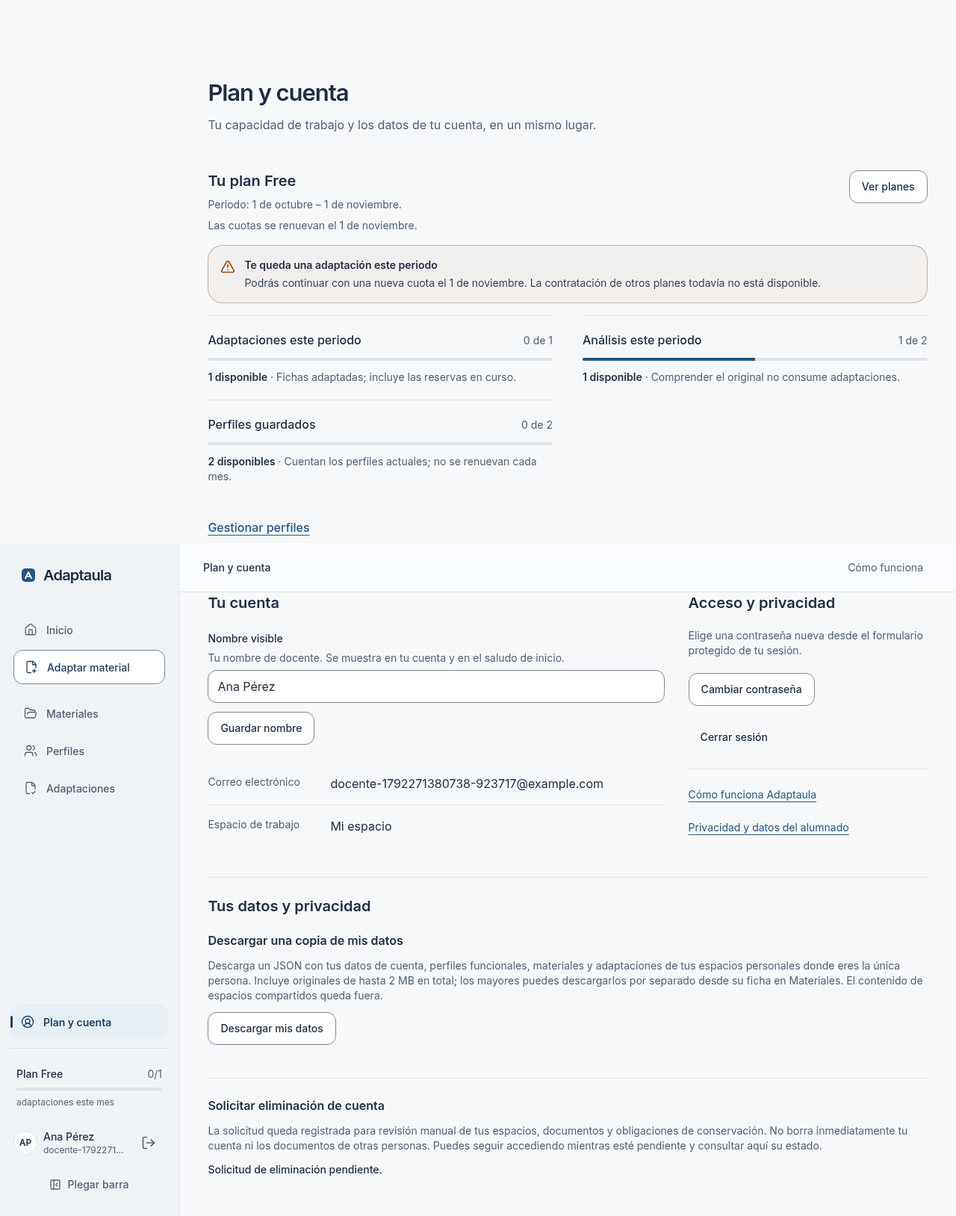
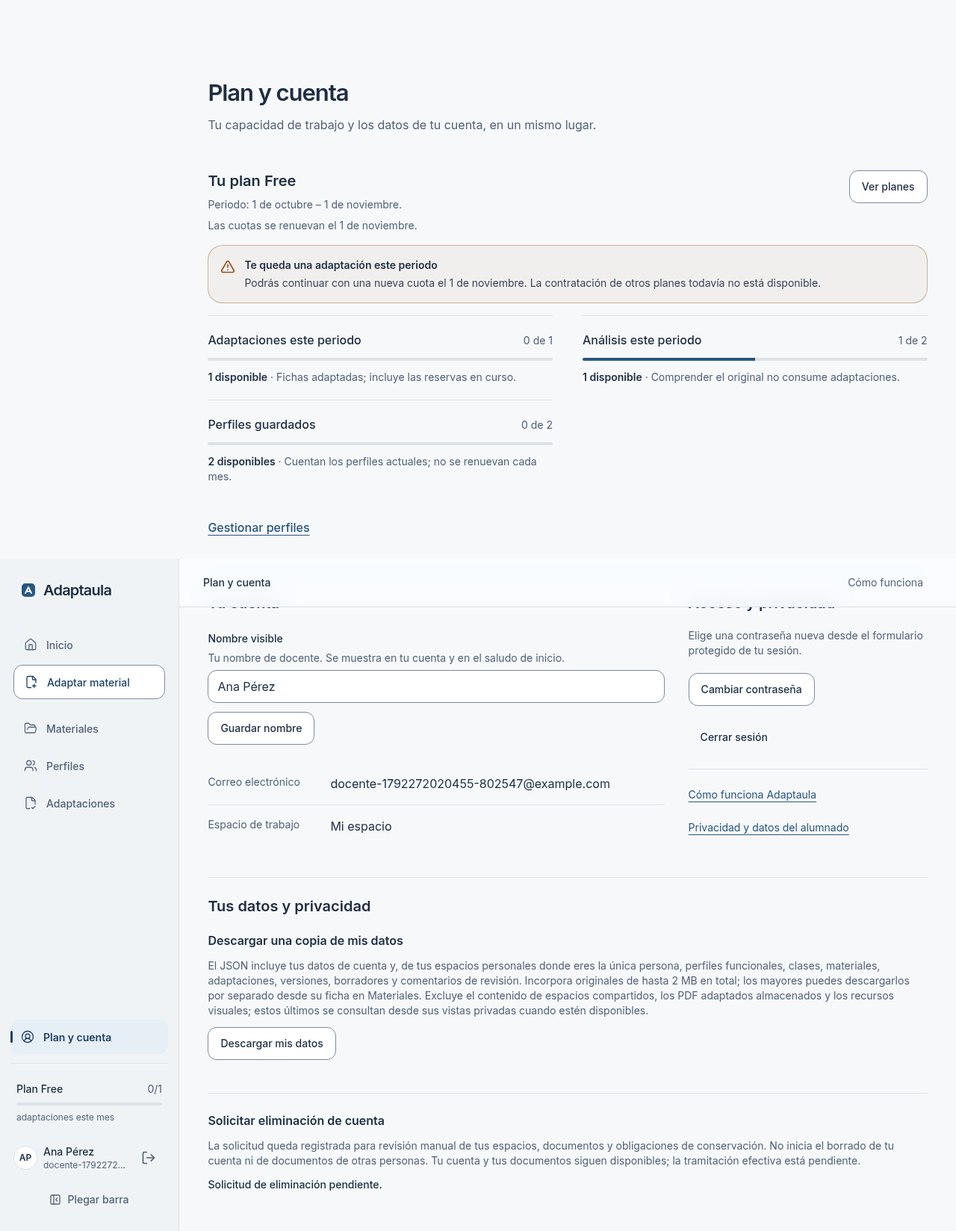
fix: restrict account deletion request RPC to verified server flow

diff --git a/tests/e2e/account-privacy-stage5a.spec.ts b/tests/e2e/account-privacy-stage5a.spec.ts
@@ -2,9 +2,29 @@ import AxeBuilder from "@axe-core/playwright";
 import { expect, test } from "@playwright/test";
 import { makePdf, password, signUpAndOnboard, uniqueEmail, uploadAndOpen } from "./helpers";
 
+const fake = `http://127.0.0.1:${process.env.FAKE_SUPABASE_PORT ?? 54399}`;
+const publishable = "sb_publishable_fakefakefakefakefake";
+
+async function localToken(page: import("@playwright/test").Page, email: string) {
+  const response = await page.request.post(`${fake}/auth/v1/token?grant_type=password`, {
+    headers: { apikey: publishable }, data: { email, password },
+  });
+  expect(response.ok()).toBe(true);
+  const session = await response.json() as { access_token: string; user: { id: string } };
+  return { token: session.access_token, id: session.user.id };
+}
+
 test("copia personal y solicitud de baja verificadas con dos identidades ficticias", async ({ page, browser }, info) => {
   const email = uniqueEmail();
   await signUpAndOnboard(page, email);
+  const a = await localToken(page, email);
+  const directHeaders = { apikey: publishable, authorization: `Bearer ${a.token}`, "content-type": "application/json" };
+  for (const data of [{}, { p_user: a.id }]) {
+    const direct = await page.request.post(`${fake}/rest/v1/rpc/request_account_deletion`, { headers: directHeaders, data });
+    expect(direct.ok()).toBe(false);
+  }
+  const before = await page.request.get(`${fake}/rest/v1/account_deletion_requests?select=id`, { headers: directHeaders });
+  expect(await before.json()).toEqual([]);
   const original = await makePdf({ marker: "PRIVACY-5A" });
   const materialId = await uploadAndOpen(page, { name: "original-sintetico.pdf", mimeType: "application/pdf", buffer: original });
   await page.goto("/app/uso");
@@ -33,7 +53,9 @@ test("copia personal y solicitud de baja verificadas con dos identidades fictici
 
   const otherContext = await browser.newContext();
   const other = await otherContext.newPage();
-  await signUpAndOnboard(other, uniqueEmail());
+  const otherEmail = uniqueEmail();
+  await signUpAndOnboard(other, otherEmail);
+  const b = await localToken(other, otherEmail);
   await other.goto("/app/uso");
   const forbiddenFile = await other.request.get(`/api/materials/${materialId}/file?download=1`);
   expect(forbiddenFile.status()).toBe(404);
@@ -54,6 +76,19 @@ test("copia personal y solicitud de baja verificadas con dos identidades fictici
   await page.getByLabel("Contraseña actual").fill(password);
   await page.getByRole("button", { name: "Solicitar eliminación" }).click();
   await expect(page.getByText("Solicitud de eliminación pendiente.")).toBeVisible();
+  await expect(page.getByText(/No se ha ejecutado el borrado: tu cuenta y tus documentos siguen disponibles/)).toBeVisible();
+  const repeated = await page.evaluate(async ({ pwd, otherId }) => {
+    const response = await fetch("/api/account/deletion-request", { method: "POST", headers: { "content-type": "application/json" },
+      body: JSON.stringify({ confirmation: "ELIMINAR MI CUENTA", password: pwd, user_id: otherId }) });
+    return { status: response.status, data: await response.json() };
+  }, { pwd: password, otherId: b.id });
+  expect(repeated.status).toBe(202);
+  const ownRequests = await page.request.get(`${fake}/rest/v1/account_deletion_requests?select=id,user_id`, { headers: directHeaders });
+  expect(await ownRequests.json()).toEqual([{ id: repeated.data.id, user_id: a.id }]);
+  const bRequests = await page.request.get(`${fake}/rest/v1/account_deletion_requests?select=id`, {
+    headers: { apikey: publishable, authorization: `Bearer ${b.token}` },
+  });
+  expect(await bRequests.json()).toEqual([]);
   await page.reload();
   await expect(page.getByText("Solicitud de eliminación pendiente.")).toBeVisible();
   await expect(page.getByText(email, { exact: true }).last()).toBeVisible();
@@ -66,4 +101,27 @@ test("copia personal y solicitud de baja verificadas con dos identidades fictici
   const overflow = await page.evaluate(() => [...document.querySelectorAll("main *")]
     .filter((el) => el.getBoundingClientRect().right > innerWidth + 1).slice(0, 5).map((el) => el.tagName));
   expect(overflow).toEqual([]);
+});
+
+test("el límite de verificación bloquea intentos repetidos sin crear una solicitud", async ({ page }) => {
+  const email = uniqueEmail();
+  await signUpAndOnboard(page, email);
+  const identity = await localToken(page, email);
+  const attempts = await page.evaluate(async (correctPassword) => {
+    const out = [];
+    for (let i = 0; i < 6; i += 1) {
+      const response = await fetch("/api/account/deletion-request", { method: "POST", headers: { "content-type": "application/json" },
+        body: JSON.stringify({ confirmation: "ELIMINAR MI CUENTA", password: i === 5 ? correctPassword : "incorrecta" }) });
+      out.push({ status: response.status, body: JSON.stringify(await response.json()) });
+    }
+    return out;
+  }, password);
+  expect(attempts.map((attempt) => attempt.status)).toEqual([403, 403, 403, 403, 403, 429]);
+  expect(attempts.every((attempt) => !attempt.body.includes(email) && !attempt.body.includes("invalid_credentials"))).toBe(true);
+  const requests = await page.request.get(`${fake}/rest/v1/account_deletion_requests?select=id`, {
+    headers: { apikey: publishable, authorization: `Bearer ${identity.token}` },
+  });
+  expect(await requests.json()).toEqual([]);
+  await page.goto("/app/uso");
+  await expect(page.getByRole("button", { name: "Solicitar eliminación" })).toBeVisible();
 });

diff --git a/tests/db/account-deletion-request.test.ts b/tests/db/account-deletion-request.test.ts
@@ -1,6 +1,6 @@
 import { afterAll, beforeAll, describe, expect, it } from "vitest";
 import type { PGlite } from "@electric-sql/pglite";
-import { as, createTestDb, createUser } from "./harness";
+import { as, applyMigration, createTestDb, createUser, migrationFiles } from "./harness";
 
 describe("account deletion requests", () => {
   let db: PGlite;
@@ -13,17 +13,47 @@ describe("account deletion requests", () => {
   });
   afterAll(async () => { await db.close(); });
 
-  it("requires authentication and exposes only the user's request", async () => {
+  it("does not allow an authenticated client to register a request through the RPC", async () => {
+    await expect(as(db, "authenticated", a.id, () => db.query("select public.request_account_deletion()"))).rejects.toThrow();
+    await expect(as(db, "authenticated", a.id, () => db.query("select public.request_account_deletion($1::uuid)", [a.id]))).rejects.toThrow();
+    await expect(as(db, "authenticated", a.id, () => db.query("insert into public.account_deletion_requests(user_id) values ($1)", [b.id]))).rejects.toThrow();
+    const requests = await db.query("select count(*)::int as total from public.account_deletion_requests where user_id = $1", [a.id]);
+    expect(requests.rows[0]).toEqual({ total: 0 });
+  });
+
+  it("permits only the service role, preserves idempotence and RLS, and leaves the account intact", async () => {
     await expect(as(db, "anon", null, () => db.query("select public.request_account_deletion()"))).rejects.toThrow();
-    const first = await as(db, "authenticated", a.id, () => db.query<{ id: string }>("select public.request_account_deletion() as id"));
-    const second = await as(db, "authenticated", a.id, () => db.query<{ id: string }>("select public.request_account_deletion() as id"));
+    const first = await as(db, "service_role", null, () => db.query<{ id: string }>("select public.request_account_deletion($1::uuid) as id", [a.id]));
+    const second = await as(db, "service_role", null, () => db.query<{ id: string }>("select public.request_account_deletion($1::uuid) as id", [a.id]));
     expect(second.rows[0]?.id).toBe(first.rows[0]?.id);
+    await as(db, "service_role", null, () => db.query("select public.request_account_deletion($1::uuid)", [b.id]));
     const own = await as(db, "authenticated", a.id, () => db.query<{ user_id: string; status: string }>("select user_id,status from public.account_deletion_requests"));
     expect(own.rows).toEqual([{ user_id: a.id, status: "requested" }]);
     const other = await as(db, "authenticated", b.id, () => db.query("select * from public.account_deletion_requests"));
-    expect(other.rows).toHaveLength(0);
+    expect(other.rows).toHaveLength(1);
+    expect(other.rows[0]).toMatchObject({ user_id: b.id });
     await expect(as(db, "authenticated", b.id, () => db.query("update public.account_deletion_requests set status='completed'"))).rejects.toThrow();
     const material = await db.query("select count(*)::int as n from public.workspaces where id = $1", [a.workspaceId]);
     expect(material.rows[0]).toEqual({ n: 1 });
+    expect((await db.query("select count(*)::int as n from auth.users where id = $1", [a.id])).rows[0]).toEqual({ n: 1 });
+  });
+
+  it("closes a legacy 027 RPC through the compensating migration", async () => {
+    const legacy = await createTestDb({ through: "20261001002700" });
+    try {
+      const user = await createUser(legacy, "legacy-privacy@example.test");
+      await legacy.exec(`create function public.request_account_deletion() returns uuid language sql security definer set search_path = '' as $$
+        insert into public.account_deletion_requests(user_id) values ((select auth.uid())) returning id
+      $$;
+      grant execute on function public.request_account_deletion() to authenticated;`);
+      const migration = migrationFiles().find((file) => file.includes("20261001002800"));
+      expect(migration).toBeDefined();
+      await applyMigration(legacy, migration!);
+      await expect(as(legacy, "authenticated", user.id, () => legacy.query("select public.request_account_deletion()"))).rejects.toThrow();
+      await expect(as(legacy, "authenticated", user.id, () => legacy.query("select public.request_account_deletion($1::uuid)", [user.id]))).rejects.toThrow();
+      expect((await legacy.query("select count(*)::int as n from public.account_deletion_requests")).rows[0]).toEqual({ n: 0 });
+    } finally {
+      await legacy.close();
+    }
   });
 });

diff --git a/src/components/account/privacy-controls.tsx b/src/components/account/privacy-controls.tsx
@@ -47,7 +47,7 @@ export function PrivacyControls({ deletionStatus, deletionAvailable }: { deletio
       const result = await response.json();
       form.reset();
       setRequestStatus(result.status);
-      setDeleteMessage("Solicitud registrada. Tu cuenta y tus documentos siguen disponibles mientras se tramita.");
+      setDeleteMessage("Solicitud registrada. No se ha ejecutado el borrado: tu cuenta y tus documentos siguen disponibles. La tramitación efectiva está pendiente.");
     } catch (error) { setDeleteMessage(error instanceof Error ? error.message : "Error al registrar la solicitud."); }
     finally { setDeleteBusy(false); }
   }
@@ -55,13 +55,13 @@ export function PrivacyControls({ deletionStatus, deletionAvailable }: { deletio
   return <div className="space-y-8">
     <div className="space-y-3">
       <h3 className="font-semibold">Descargar una copia de mis datos</h3>
-      <p className="text-sm text-muted-foreground">Descarga un JSON con tus datos de cuenta, perfiles funcionales, materiales y adaptaciones de tus espacios personales donde eres la única persona. Incluye originales de hasta 2 MB en total; los mayores puedes descargarlos por separado desde su ficha en Materiales. El contenido de espacios compartidos queda fuera.</p>
+      <p className="text-sm text-muted-foreground">El JSON incluye tus datos de cuenta y, de tus espacios personales donde eres la única persona, perfiles funcionales, clases, materiales, adaptaciones, versiones, borradores y comentarios de revisión. Incorpora originales de hasta 2 MB en total; los mayores puedes descargarlos por separado desde su ficha en Materiales. Excluye el contenido de espacios compartidos, los PDF adaptados almacenados y los recursos visuales; estos últimos se consultan desde sus vistas privadas cuando estén disponibles.</p>
       <Button type="button" variant="secondary" onClick={download} disabled={exportBusy}>{exportBusy ? "Preparando copia…" : "Descargar mis datos"}</Button>
       <p role="status" className="text-sm text-muted-foreground">{exportMessage}</p>
     </div>
     <div className="space-y-3 border-t border-border pt-6">
       <h3 className="font-semibold">Solicitar eliminación de cuenta</h3>
-      <p className="text-sm text-muted-foreground">La solicitud queda registrada para revisión manual de tus espacios, documentos y obligaciones de conservación. No borra inmediatamente tu cuenta ni los documentos de otras personas. Puedes seguir accediendo mientras esté pendiente y consultar aquí su estado.</p>
+      <p className="text-sm text-muted-foreground">La solicitud queda registrada para revisión manual de tus espacios, documentos y obligaciones de conservación. No inicia el borrado de tu cuenta ni de documentos de otras personas. Tu cuenta y tus documentos siguen disponibles; la tramitación efectiva está pendiente.</p>
       {!deletionAvailable ? <p role="status" className="text-sm font-medium">La solicitud de eliminación todavía no está disponible en este entorno.</p> :
         requestStatus ? <p role="status" className="text-sm font-medium">{
           requestStatus === "completed" ? "Solicitud marcada como completada." :

diff --git a/src/app/api/account/deletion-request/route.ts b/src/app/api/account/deletion-request/route.ts
@@ -10,7 +10,8 @@ export async function POST(request: Request) {
   if (!requestIsSameOrigin(request)) return apiError(403, "forbidden_origin", "Solicitud no permitida.");
   const user = await getUser();
   if (!user?.email) return apiError(401, "unauthenticated", "Entra de nuevo para continuar.");
-  const { data: allowed, error: rateError } = await createAdminClient().rpc("rate_limit_allowed", {
+  const admin = createAdminClient();
+  const { data: allowed, error: rateError } = await admin.rpc("rate_limit_allowed", {
     p_key: `account-deletion-verify:${user.id}`, p_window_seconds: 3600, p_max: 5,
   });
   if (rateError || !allowed) return apiError(429, "rate_limited", "Demasiados intentos. Prueba de nuevo más tarde.");
@@ -31,9 +32,10 @@ export async function POST(request: Request) {
   });
   const { data: verified, error: verifyError } = await verifier.auth.signInWithPassword({ email: user.email, password });
   if (verifyError || verified.user?.id !== user.id) return apiError(403, "identity_unverified", "No hemos podido verificar tu identidad.");
-  const db = await getSupabase();
-  const { data: id, error } = await db.rpc("request_account_deletion");
+  // Only the server holds service_role. The user-scoped client cannot execute this RPC.
+  const { data: id, error } = await admin.rpc("request_account_deletion", { p_user: user.id });
   if (error || !id) return apiError(503, "request_failed", "No hemos podido registrar la solicitud. Inténtalo de nuevo.");
+  const db = await getSupabase();
   const { data: requestRecord, error: readError } = await db.from("account_deletion_requests")
     .select("status").eq("id", id).eq("user_id", user.id).single();
   if (readError || !requestRecord) return apiError(503, "request_failed", "La solicitud quedó registrada, pero no podemos mostrar su estado ahora.");

diff --git a/src/lib/supabase/admin.ts b/src/lib/supabase/admin.ts
@@ -5,8 +5,8 @@ import { serverEnv } from "@/lib/config/env.server";
 
 /**
  * Service-role client: bypasses RLS. Only for Stripe webhooks, the job processor, quota accounting,
- * cron and /admin. Never call it from code that acts on behalf of a user request without
- * having resolved and checked the workspace first.
+ * cron and /admin. For workspace data, resolve and check that workspace first. For an
+ * account-scoped operation, verify the Auth identity and any required recent credential first.
  */
 export function createAdminClient() {
   const key = serverEnv().SUPABASE_SECRET_KEY;

diff --git a/docs/qa/adaptaula-2-etapa-5a/README.md b/docs/qa/adaptaula-2-etapa-5a/README.md
@@ -7,7 +7,7 @@ Base: PR #45 integrada en `5317031`. Rama: `codex/adaptaula-2-datos-5a`. No se a
 - `POST /api/account/export` exige sesión y origen propio. Aplica un límite atómico de dos descargas por día e identidad. Devuelve un JSON con SHA-256 global en la cabecera, sin persistir un ZIP ni crear URL pública.
 - El JSON contiene datos básicos de la cuenta y, para cada workspace **personal de propietario único**, perfiles funcionales, clases y sus relaciones, materiales, adaptaciones, versiones, borradores docentes y comentarios de revisión. En espacios compartidos solo devuelve nombre/rol del espacio y declara que excluye su contenido.
 - Los originales del espacio personal se incluyen en base64 con SHA-256 mientras el conjunto no exceda 2 MB y los 30 primeros archivos; los demás figuran con `/api/materials/{id}/file?download=1`, que vuelve a comprobar sesión, workspace y RLS y crea un enlace firmado de un minuto. El límite de 500 registros por entidad y 4 MB para el JSON evita respuestas excesivas y detiene la exportación completa con un error claro. PDF de adaptaciones y recursos visuales almacenados no se empaquetan en esta versión; se pueden obtener por las rutas privadas de producto cuando están disponibles. La descarga solo representa las entidades y archivos indicados.
-- `POST /api/account/deletion-request` exige sesión, origen propio, confirmación literal y contraseña actual comprobada en un cliente Auth aislado. Cinco intentos por hora. La función SQL registra una sola solicitud por cuenta, repetible sin crear nuevas bajas. La tabla tiene RLS de solo lectura para el titular; solo servicio puede cambiar su estado. Conserva un UUID seudónimo aunque en el futuro se borre Auth, para poder reconciliar fallos; su plazo de retención requiere revisión jurídica.
+- `POST /api/account/deletion-request` exige sesión, origen propio, confirmación literal y contraseña actual comprobada en un cliente Auth aislado. Cinco intentos por hora. Solo después, el servidor invoca `request_account_deletion(p_user)` con `service_role`; la firma antigua sin argumentos se elimina y `authenticated` no puede invocar ninguna de ellas. La función SQL conserva una sola solicitud por cuenta. El `p_user` proviene de `auth.getUser()`, nunca del cuerpo enviado por el navegador. La tabla mantiene RLS de solo lectura para el titular; solo servicio puede cambiar su estado. Conserva un UUID seudónimo aunque en el futuro se borre Auth, para poder reconciliar fallos; su plazo de retención requiere revisión jurídica.
 - «Plan y cuenta» presenta alcance, límites y estado real. Una solicitud **no** borra datos ni impide trabajar. Queda pendiente de revisión manual. No existe todavía un proceso de correo ni una eliminación automática.
 
 ## Lo que falta para una baja efectiva
@@ -18,15 +18,15 @@ Operación manual mientras tanto: consultar `account_deletion_requests` con cred
 
 ## Aplicación futura
 
-1. Revisar que el entorno de destino ya tenga las migraciones previas hasta 026 y que su política de conservación y canal de atención estén preparados. No se han comprobado datos ni condiciones comerciales del Supabase remoto.
-2. Aplicar **solo tras autorización de despliegue** `supabase/migrations/20261001002700_account_deletion_requests.sql` mediante el proceso habitual de migraciones y verificar la tabla, la función, grants y RLS en staging.
-3. Desplegar la aplicación después de la migración. Probar con dos identidades ficticias: una no lee ni descarga archivos de la otra; la solicitud no borra la cuenta; la tercera exportación en un día devuelve 429. Verificar que el canal manual atiende las solicitudes antes de ofrecer el control en producción.
+1. Comprobar **en staging, solo cuando se autorice** el estado real de 025–028 y que la política de conservación y el canal de atención estén preparados. La evidencia de esta PR solo muestra 027 en PGlite local; no se ha consultado Supabase compartido. No puede afirmarse que 027 no se haya aplicado fuera de esta sesión.
+2. Si 027 no se ha aplicado, ejecutar la versión corregida de 027 y luego 028 en orden. Si 027 ya se aplicó, ejecutar **028 compensatoria** antes de desplegar la nueva API: elimina la RPC antigua y deja solo la firma con permiso de `service_role`. Revisar manualmente cualquier solicitud registrada durante la ventana anterior, pues no se puede probar que superara la contraseña.
+3. Verificar en staging que `authenticated` no puede ejecutar ninguna firma ni insertar directamente, que `service_role` sí puede registrar una solicitud idempotente, y que RLS permite al titular leer solo la propia. Desplegar la aplicación después de la migración. Probar con dos identidades ficticias: una no lee ni descarga archivos de la otra; una contraseña incorrecta no crea la solicitud; la solicitud no borra la cuenta; la tercera exportación en un día devuelve 429. No se han aplicado migraciones ni cambiado secretos remotos en esta PR.
 
 ## Verificación local
 
-- PGlite: `tests/db/account-deletion-request.test.ts` (anon denegado, RLS, repetición idempotente, filas intactas).
-- Unitarias: `tests/unit/account-export.test.ts` (datos personales, original con base64, exclusión de espacio compartido y secreto).
-- E2E con Supabase simulado y PDF sintético: `tests/e2e/account-privacy-stage5a.spec.ts` en escritorio y móvil (descarga, aislamiento, acceso privado denegado a otro usuario, contraseña errónea, solicitud y recarga, rate limit, Axe WCAG 2.2 AA, 320 px con texto al 200 %, movimiento reducido y alto contraste).
+- PGlite: `tests/db/account-deletion-request.test.ts` (3 pruebas aprobadas; RPC directa e inserción de `authenticated` denegadas, firma de servicio idempotente, RLS, cuenta intacta y compensación de un esquema 027 heredado). La nueva prueba de RPC directa falló antes del arreglo: la función anterior devolvió un UUID.
+- Unitarias: `tests/unit/account-export.test.ts` (1 prueba aprobada: datos personales, original con base64, exclusión de espacio compartido y secreto).
+- E2E con Supabase simulado y PDF sintético: `tests/e2e/account-privacy-stage5a.spec.ts` (4 pruebas aprobadas; escritorio y móvil: RPC directa denegada, descarga, aislamiento, acceso privado denegado a otro usuario, contraseña errónea/correcta, solicitud repetida sin duplicación ni suplantación, límite de intentos, cuenta disponible, errores genéricos, Axe WCAG 2.2 AA, 320 px con texto al 200 %, movimiento reducido y alto contraste).
 - Typecheck, lint y build: ejecutados localmente. La calidad de los documentos generados por IA no se evalúa aquí.
 
 Capturas reales: [cuenta escritorio](capturas/cuenta-escritorio.png), [cuenta móvil](capturas/cuenta-movil.png), [solicitud escritorio](capturas/solicitud-escritorio.png), [solicitud móvil](capturas/solicitud-movil.png).

diff --git a/docs/DEVELOPMENT_LOG.md b/docs/DEVELOPMENT_LOG.md
@@ -2,10 +2,11 @@
 
 ## 2026-10-17 — Adaptaula 2.0, etapa 5A: exportación y solicitud de baja
 
-- #45 fusionada en `5317031`; [PR #46](https://github.com/TinyChat-up/ADAPTAULA/pull/46) abierta desde la rama nueva `codex/adaptaula-2-datos-5a`. Migración 027 probada solo en PGlite local; no aplicada en Supabase remoto.
+- #45 fusionada en `5317031`; [PR #46](https://github.com/TinyChat-up/ADAPTAULA/pull/46) abierta desde `codex/adaptaula-2-datos-5a`. La evidencia disponible solo acredita 027 en PGlite; no se consultó ni modificó Supabase remoto. Se corrigió 027 para instalaciones nuevas y se añadió 028 para cerrar la firma insegura si un entorno ya tenía 027.
 - `/app/uso` ofrece descarga JSON autenticada y solicitud de eliminación con frase de confirmación y contraseña reciente. Descarga de espacios personales de miembro único; contenido de compartidos excluido. RLS para filas y objetos, límite de tamaño/filas, rate limit y SHA-256; sin URL pública persistente. La solicitud queda en tabla propia, idempotente y de lectura exclusiva para el titular. No borra Auth ni documentos: el flujo completo depende de orquestación recuperable de Storage y revisión jurídica.
 - El cron de subidas abandonadas ya existía. No se añaden purgas para borradores, PDFs, registros técnicos ni usuarios activos porque sus plazos no están aprobados. [QA, capturas y despliegue](qa/adaptaula-2-etapa-5a/README.md).
-- Verificación final: 2 pruebas focalizadas unitarias/PGlite, 2 E2E (escritorio y móvil) con PDF sintético y dos identidades, Axe WCAG 2.2 AA y reflujo a 320 px/200 %; typecheck, lint completo, build, escáner de secretos y `git diff --check` correctos. No se ha ejecutado la suite completa ni se ha probado Supabase o Vercel remoto.
+- La revisión de cierre reprodujo una vulnerabilidad: `authenticated` podía invocar directamente la RPC sin contraseña. Tras el arreglo solo `service_role` ejecuta la firma con ID derivado de Auth en servidor; se mantiene la verificación aislada de contraseña, el origen y la frecuencia. La versión heredada sin argumentos se elimina mediante 028. Las solicitudes preexistentes en un entorno que hubiera aplicado 027 deben revisarse manualmente; no se consideran verificadas por contraseña.
+- Verificación de cierre: PGlite y E2E focalizados, Axe WCAG 2.2 AA y reflujo a 320 px/200 %, typecheck, lint, build, escáner de secretos y `git diff --check`. Los detalles y resultados están en [QA 5A](qa/adaptaula-2-etapa-5a/README.md). No se ha ejecutado la suite completa ni se ha probado Supabase o Vercel remoto.
 - Sin modelos pagados, Stripe, Supabase remoto, usuarios reales ni cambios pedagógicos.
 
 PR #45: integrada en `5317031` (base de 5A).

diff --git a/docs/PROJECT_STATUS.md b/docs/PROJECT_STATUS.md
@@ -1,6 +1,6 @@
 # Estado compartido de Adaptaula
 
-> **Etapa 5A (2026-10-17):** #45 fusionada en `5317031`; [PR #46](https://github.com/TinyChat-up/ADAPTAULA/pull/46) abierta desde `codex/adaptaula-2-datos-5a`. Exportación personal JSON autenticada con archivos originales pequeños y solicitud persistente de baja verificada con contraseña. El borrado efectivo de Auth, filas y Storage **sigue pendiente**; no se simula. Migración 027 local, sin aplicación remota. [Alcance y QA](qa/adaptaula-2-etapa-5a/README.md).
+> **Etapa 5A (2026-10-17):** #45 fusionada en `5317031`; [PR #46](https://github.com/TinyChat-up/ADAPTAULA/pull/46) abierta desde `codex/adaptaula-2-datos-5a`. Exportación personal JSON y solicitud de baja verificada con contraseña. La RPC de baja queda reservada al servidor por 027 corregida + 028 compensatoria. El borrado efectivo de Auth, filas y Storage **sigue pendiente**. Migraciones probadas localmente, sin consulta ni aplicación remota. [Alcance y QA](qa/adaptaula-2-etapa-5a/README.md).
 
 > **Etapa 4B (2026-10-17):** #44 fusionada en `c925c33`; rama `codex/adaptaula-2-publica-4b`. Landing con demostración sintética interactiva, recorrido de cinco pasos, formularios y onboarding en una pantalla. [Alcance y QA](qa/adaptaula-2-etapa-4b/README.md). Sin despliegue ni migración remota.
 
@@ -35,7 +35,7 @@ Los estados siguientes describen código inspeccionado; no implican validación 
 
 ## Despliegue, pruebas y límites de esta sesión
 
-- El usuario confirma que la migración **024 está aplicada en Supabase**. No se ha consultado el proyecto remoto ni se afirma que estén desplegadas 025–027. Esta fase añade **027**, probada solo localmente; requiere aplicación futura antes del despliegue de la UI.
+- El usuario confirma que la migración **024 está aplicada en Supabase**. No se ha consultado el proyecto remoto ni se afirma el estado de 025–028. Esta fase incluye 027 corregida y 028 compensatoria; comprobar su estado real en staging antes del despliegue autorizado.
 - Las verificaciones previas se consideran antecedentes; esta sesión usa pruebas focalizadas, PGlite local y proveedores simulados. Ver comandos y resultados en el registro.
 - Verificación de 2B y capturas en [QA](qa/adaptaula-2-etapa-2b/README.md); las pruebas anteriores de 2A se conservan como antecedentes. Se mantiene Google Fonts sin cambios; no se valida el runtime de Vercel.
 - Git y la API de GitHub están disponibles. #41 y #42 confirmadas MERGED (base `9f064ef`); esta entrega no modifica otras PR.

diff --git a/docs/legal/AUDITORIA_DATOS.md b/docs/legal/AUDITORIA_DATOS.md
@@ -49,8 +49,8 @@ Las rutas de código son del repositorio a esta fecha.
 | Borrar un material: borra el original y la fila; se niega si existen adaptaciones (FK `RESTRICT`) | Implementado | `materiales/actions.ts` → `service.ts` (`deleteMaterial`) |
 | Cascadas de base de datos: el workspace arrastra todos sus datos y la adaptación arrastra versiones, recursos, exportaciones y comentarios | Implementado (SQL) | `000400`, `001600`, `002200`, `002400` |
 | Borrado de los **objetos** de Storage de `generated-assets` al borrar una adaptación | **Pendiente**: en `src/` solo se eliminan objetos de `source-materials` | Las filas caen en cascada, pero los ficheros pueden quedar huérfanos en el bucket |
-| Borrado de una adaptación, de una cuenta o de un workspace desde la aplicación | **Pendiente**: se puede solicitar la baja, no ejecutarla | `account_deletion_requests` (027), `/api/account/deletion-request` |
-| Exportar mis datos personales (JSON) | Implementado para espacio personal de miembro único, con límite de 500 filas por entidad y 20 MB de originales incrustados; compartidos excluidos | `/api/account/export`, `src/lib/privacy/export.ts` |
+| Borrado de una adaptación, de una cuenta o de un workspace desde la aplicación | **Pendiente**: se puede solicitar la baja, no ejecutarla | `account_deletion_requests` (027), RPC restringida por 028, `/api/account/deletion-request` |
+| Exportar mis datos personales (JSON) | Implementado para espacio personal de miembro único, con límite de 500 filas por entidad, 2 MB de originales incrustados y 4 MB de respuesta; compartidos excluidos | `/api/account/export`, `src/lib/privacy/export.ts` |
 | Opción «Eliminar originales automáticamente» a los 7, 30 o 90 días | **Documentado**, no implementado | — |
 | Retención de 13 meses de `ai_runs` y `product_events` y de 24 meses de `audit_logs` | **Documentado**, no implementado | No existe ningún job de purga. `ai_runs` pasa a `SET NULL` al borrar workspace o material y se conserva indefinidamente (solo identificadores y métricas, sin contenido) |
 | `history_days` del plan Free | **Documentado** en `plans.features`; no hay código que lo aplique | `supabase/seed.sql` |

diff --git a/docs/ROADMAP.md b/docs/ROADMAP.md
@@ -2,6 +2,8 @@
 
 > **Etapa 5A, primera entrega (2026-10-17):** exportación personal y solicitud de eliminación comprobables. Para cerrar la fase falta un procesador duradero de baja que bloquee jobs, limpie todos los buckets, borre Auth y respete obligaciones de conservación definidas jurídicamente. [Detalle](qa/adaptaula-2-etapa-5a/README.md). No activar borrado automático mientras falte esa infraestructura.
 
+> **Etapa 5B, tras integrar #46:** validar en staging el estado real de 025–028, confirmación de correo, recuperación y enlaces de Auth, PDF Chromium en Vercel, Storage privado, cuotas Free y fallos seguros con diagnósticos sin contenido sensible. No aplicar migraciones ni cambiar secretos sin autorización. La eliminación física completa es una entrega separada con conservación definida y limpieza recuperable.
+
 > Etapa 4B: portada y demostración pública sintética, «Cómo funciona», acceso y primera experiencia. [Alcance y pruebas](qa/adaptaula-2-etapa-4b/README.md). #44 está fusionada; no se ha aplicado migración remota.
 
 > **Etapa 4A (2026-10-17):** #43 integrada en `5867d30`. Nueva política persistida mediante migración 026, precios con tres planes y avisos de consumo. Pro sin contratación, Max en preparación, imágenes desactivadas. Suscripciones anteriores conservadas; no se aplica SQL remoto. [Alcance, compatibilidad y QA](qa/adaptaula-2-etapa-4a/README.md). 4B debe esperar a integrar 4A.
